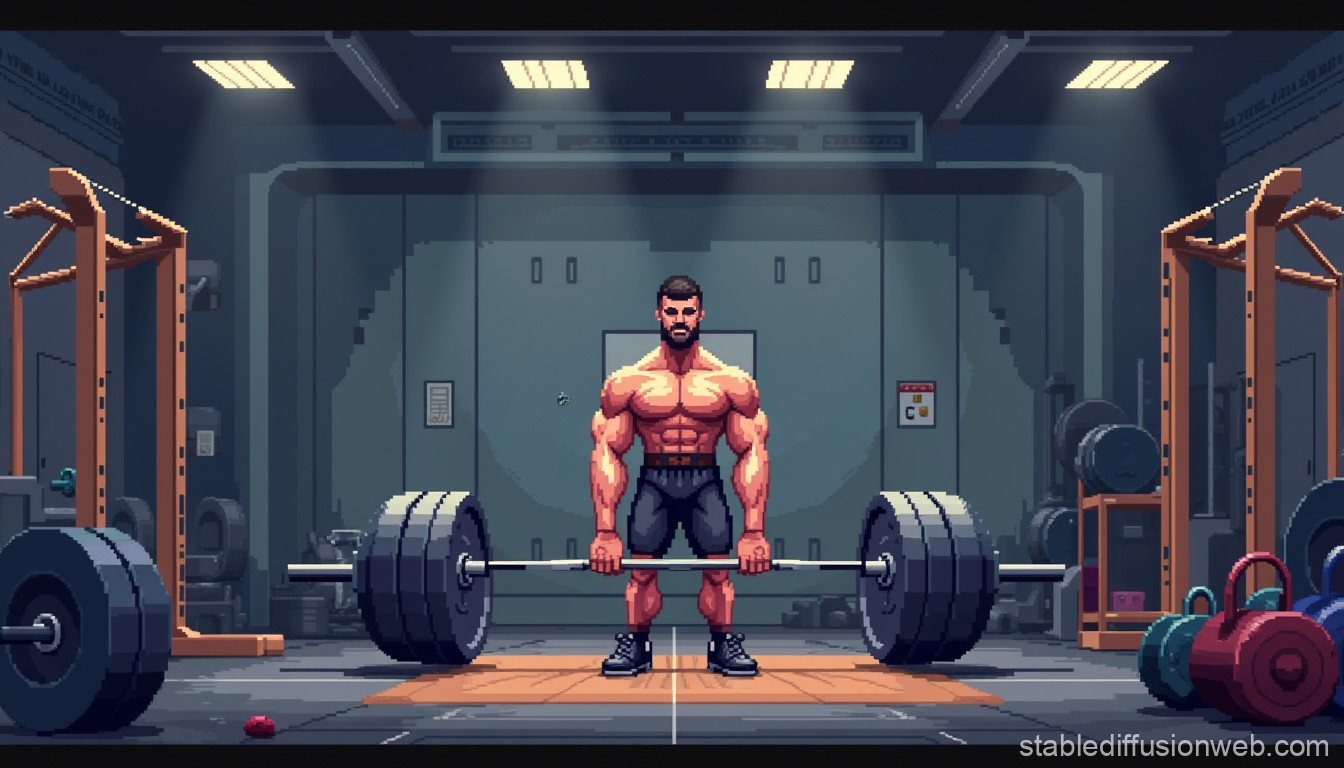
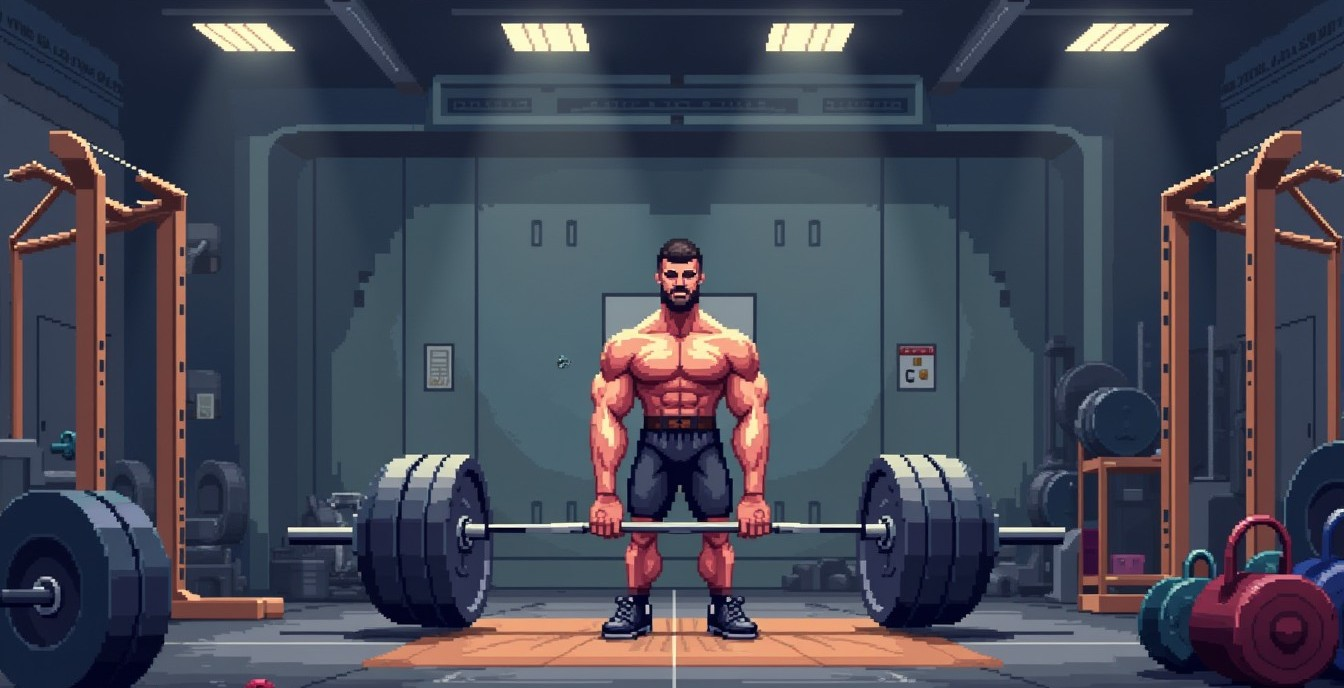
feat: add savegame persistence and tutorial/UI fixes
- Added localStorage save/load system
- Save mission progress, money and notebook state
- Restore notebook discoveries after reload
- Restore notebook UI when notebook was already purchased

- Fixed tutorial mission validation edge cases
- Fixed string tutorial accepting previous numeric results

- Improved tutorial overlay resize behavior
- Improved zoom handling for tutorial highlights
- Locked page scrolling during active tutorials
- Added dynamic tutorial overlay repositioning

- Added notebook state export/import helpers
- General UI polish and tutorial flow improvements

Infrastructure prepared for future level reset system.

diff --git a/itemshop.js b/itemshop.js
@@ -1,9 +1,10 @@
 import {loadTutorialSteps } from "./tutorial.js";
 import level0 from "./levels/level0.js";
 import level1 from "./levels/level1.js";
-import {initNotebook, showNotebookUI, unlockNotebookEntry, completeNotebookEntry} from "./notebook.js";
+import {initNotebook, showNotebookUI, unlockNotebookEntry, completeNotebookEntry, getNotebookState, loadNotebookState} from "./notebook.js";
 import { renderShopVisuals, hideTooltip} from "./shop.js";
 import { processDiscoveries } from "./notebookDiscovery.js";
+import {saveGame,loadGame} from "./savegame.js";
 import {
     loadQuotes,
     showHintMessage,
@@ -12,6 +13,7 @@ import {
     showTutorialWarning,
     getRandomTutorialWarning
 } from "./shopkeeper.js";
+
 
 let db;
 let editor;
@@ -59,8 +61,31 @@ startApp();
 async function startApp() {
     await initDatabase();
     await loadQuotes();
-    loadTutorialSteps(currentLevel.missions[0].tutorialSteps, currentLevel.missions[0].softTutorial);
     initNotebook();
+
+    const save = loadGame();
+    if(save) {
+        gameState = save.gameState;
+        loadNotebookState(save.notebookState);
+        currentMissionIndex = save.missionIndex;
+
+        if(gameState.hasNotebook) {
+            showNotebookUI();
+        }
+
+        if(currentLevel === level0) {
+            loadTutorialSteps(
+                getCurrentMission().tutorialSteps,
+                getCurrentMission().softTutorial
+            );
+        }
+    } else {
+        loadTutorialSteps(
+            currentLevel.missions[0].tutorialSteps,
+            currentLevel.missions[0].softTutorial
+        );
+    }
+
     renderShopVisuals(db, buyNotebook);
     refreshMoneyDisplay();
     refreshMission();
@@ -166,6 +191,7 @@ function checkMission(query, result) {
     }
 
     refreshMission();
+    saveCurrentGame();
 }
 
 function renderTable(results, header= null) {
@@ -297,6 +323,7 @@ function buyNotebook() {
     renderShopVisuals(db, buyNotebook);
     showItemPopup("SQL NOTEBOOK","./assets/sprites/shopItems/notebook.png","Speichert deine neuen\nSQL Befehle und\nTabellenschemata.");
     hideTooltip();
+    saveCurrentGame();
 }
 
 function showItemPopup(title,icon,description) {
@@ -312,6 +339,15 @@ function showItemPopup(title,icon,description) {
         checkMission("", []);
     }
     };
+}
+
+function saveCurrentGame() {
+    saveGame({
+        level: currentLevel.title,
+        missionIndex: currentMissionIndex,
+        gameState,
+        notebookState: getNotebookState()
+    });
 }
 
 setInterval(() => {

diff --git a/tutorial.js b/tutorial.js
@@ -12,6 +12,7 @@ export function loadTutorialSteps(steps, softTutorial = false) {
 }
 
 function showTutorialStep() {
+    document.body.style.overflow = "hidden";
     const step = tutorialSteps[currentTutorialStep];
     const overlay = document.getElementById("tutorial-overlay");
     const runButton = document.getElementById("run-btn");
@@ -44,14 +45,20 @@ function showTutorialStep() {
     textBox.style.top = "";
     textBox.style.bottom = "";
     switch(step.position) {
+        case "target-bottom":
+            textBox.style.top = (rect.bottom + 20) + "px";
+            break;
+        case "target-top":
+            textBox.style.top = (rect.top - 180) + "px";
+            break;
         case "bottom":
-            textBox.style.bottom = "200px";
+            textBox.style.bottom = "18vh";
             break;
         case "top":
-            textBox.style.top = "20px";
+            textBox.style.top = "5h";
             break;
         default:
-            textBox.style.bottom = "380px";
+            textBox.style.bottom = "41vh";
     }
 }
 
@@ -59,6 +66,7 @@ document.getElementById("tutorial-next-btn").onclick = () => {
     currentTutorialStep++;
     if(currentTutorialStep >= tutorialSteps.length) {
     document.getElementById("tutorial-overlay").style.display = "none";
+    document.body.style.overflow = "";
     if(finishCallback) {
         finishCallback();
     }
@@ -67,3 +75,12 @@ document.getElementById("tutorial-next-btn").onclick = () => {
 }
     showTutorialStep();
 };
+
+window.addEventListener("resize", () => {
+    if(
+        tutorialSteps.length > 0 &&
+        document.getElementById("tutorial-overlay").style.display !== "none"
+    ) {
+        showTutorialStep();
+    }
+});

diff --git a/levels/level0.js b/levels/level0.js
@@ -8,7 +8,7 @@ const level0 = {
       tutorialSteps: [
           {
               target: "#shopkeeper",
-              text: "Ahh... endlich Verstärkung. Willkommen im SQL Item Shop."
+              text: "Ahh... endlich Verstärkung. Willkommen im SQL Item Shop.",
           },
           {
             target: "#shopkeeper",
@@ -63,9 +63,14 @@ const level0 = {
       unlocks: [],
       completes: ["SELECT"],
       validator: (query, result) => {
-        const normalized = query.toLowerCase().trim();
-        return normalized.includes("select");
-      },
+            if(result.length === 0)
+                return false;
+
+            const value =
+                result[0].values?.[0]?.[0];
+
+            return value === 1;
+        },
     },
     {
       id: "hello_shopkeeper",
@@ -104,9 +109,14 @@ const level0 = {
       },
       unlocks: [],
       validator: (query, result) => {
-        const normalized = query.toLowerCase();
-        return normalized.includes("select") && result.length > 0;
-      },
+            if(result.length === 0)
+                return false;
+
+            const value =
+                result[0].values?.[0]?.[0];
+
+            return typeof value === "string";
+        },
     },
     {
       id: "show_products",

diff --git a/notebook.js b/notebook.js
@@ -231,3 +231,18 @@ export function completeNotebookEntry(entry) {
         renderCategoryPage(currentPage);
     }
 }
+
+export function getNotebookState() {
+    return notebookState;
+}
+
+export function loadNotebookState(data) {
+    notebookState.commands = data.commands || {};
+    notebookState.tables = data.tables || {};
+
+    if(currentPage === "TABLES") {
+        renderTablesPage();
+    } else {
+        renderCategoryPage(currentPage);
+    }
+}

diff --git a/savegame.js b/savegame.js
@@ -1,0 +1,16 @@
+export function saveGame(data) {
+    localStorage.setItem("sql-item-shop-save", JSON.stringify(data));
+}
+
+export function loadGame() {
+    const save = localStorage.getItem("sql-item-shop-save");
+
+    if(!save)
+        return null;
+
+    return JSON.parse(save);
+}
+
+export function deleteSave() {
+    localStorage.removeItem("sql-item-shop-save");
+}

diff --git a/style.css b/style.css
@@ -932,6 +932,8 @@ tr:hover td {
     border-radius: 8px;
     color: #f3dfb6;
     font-family: 'superhelio _regular', sans-serif;
+    word-wrap: break-word;
+    box-sizing: border-box;
     z-index: 10000;
 }
 
